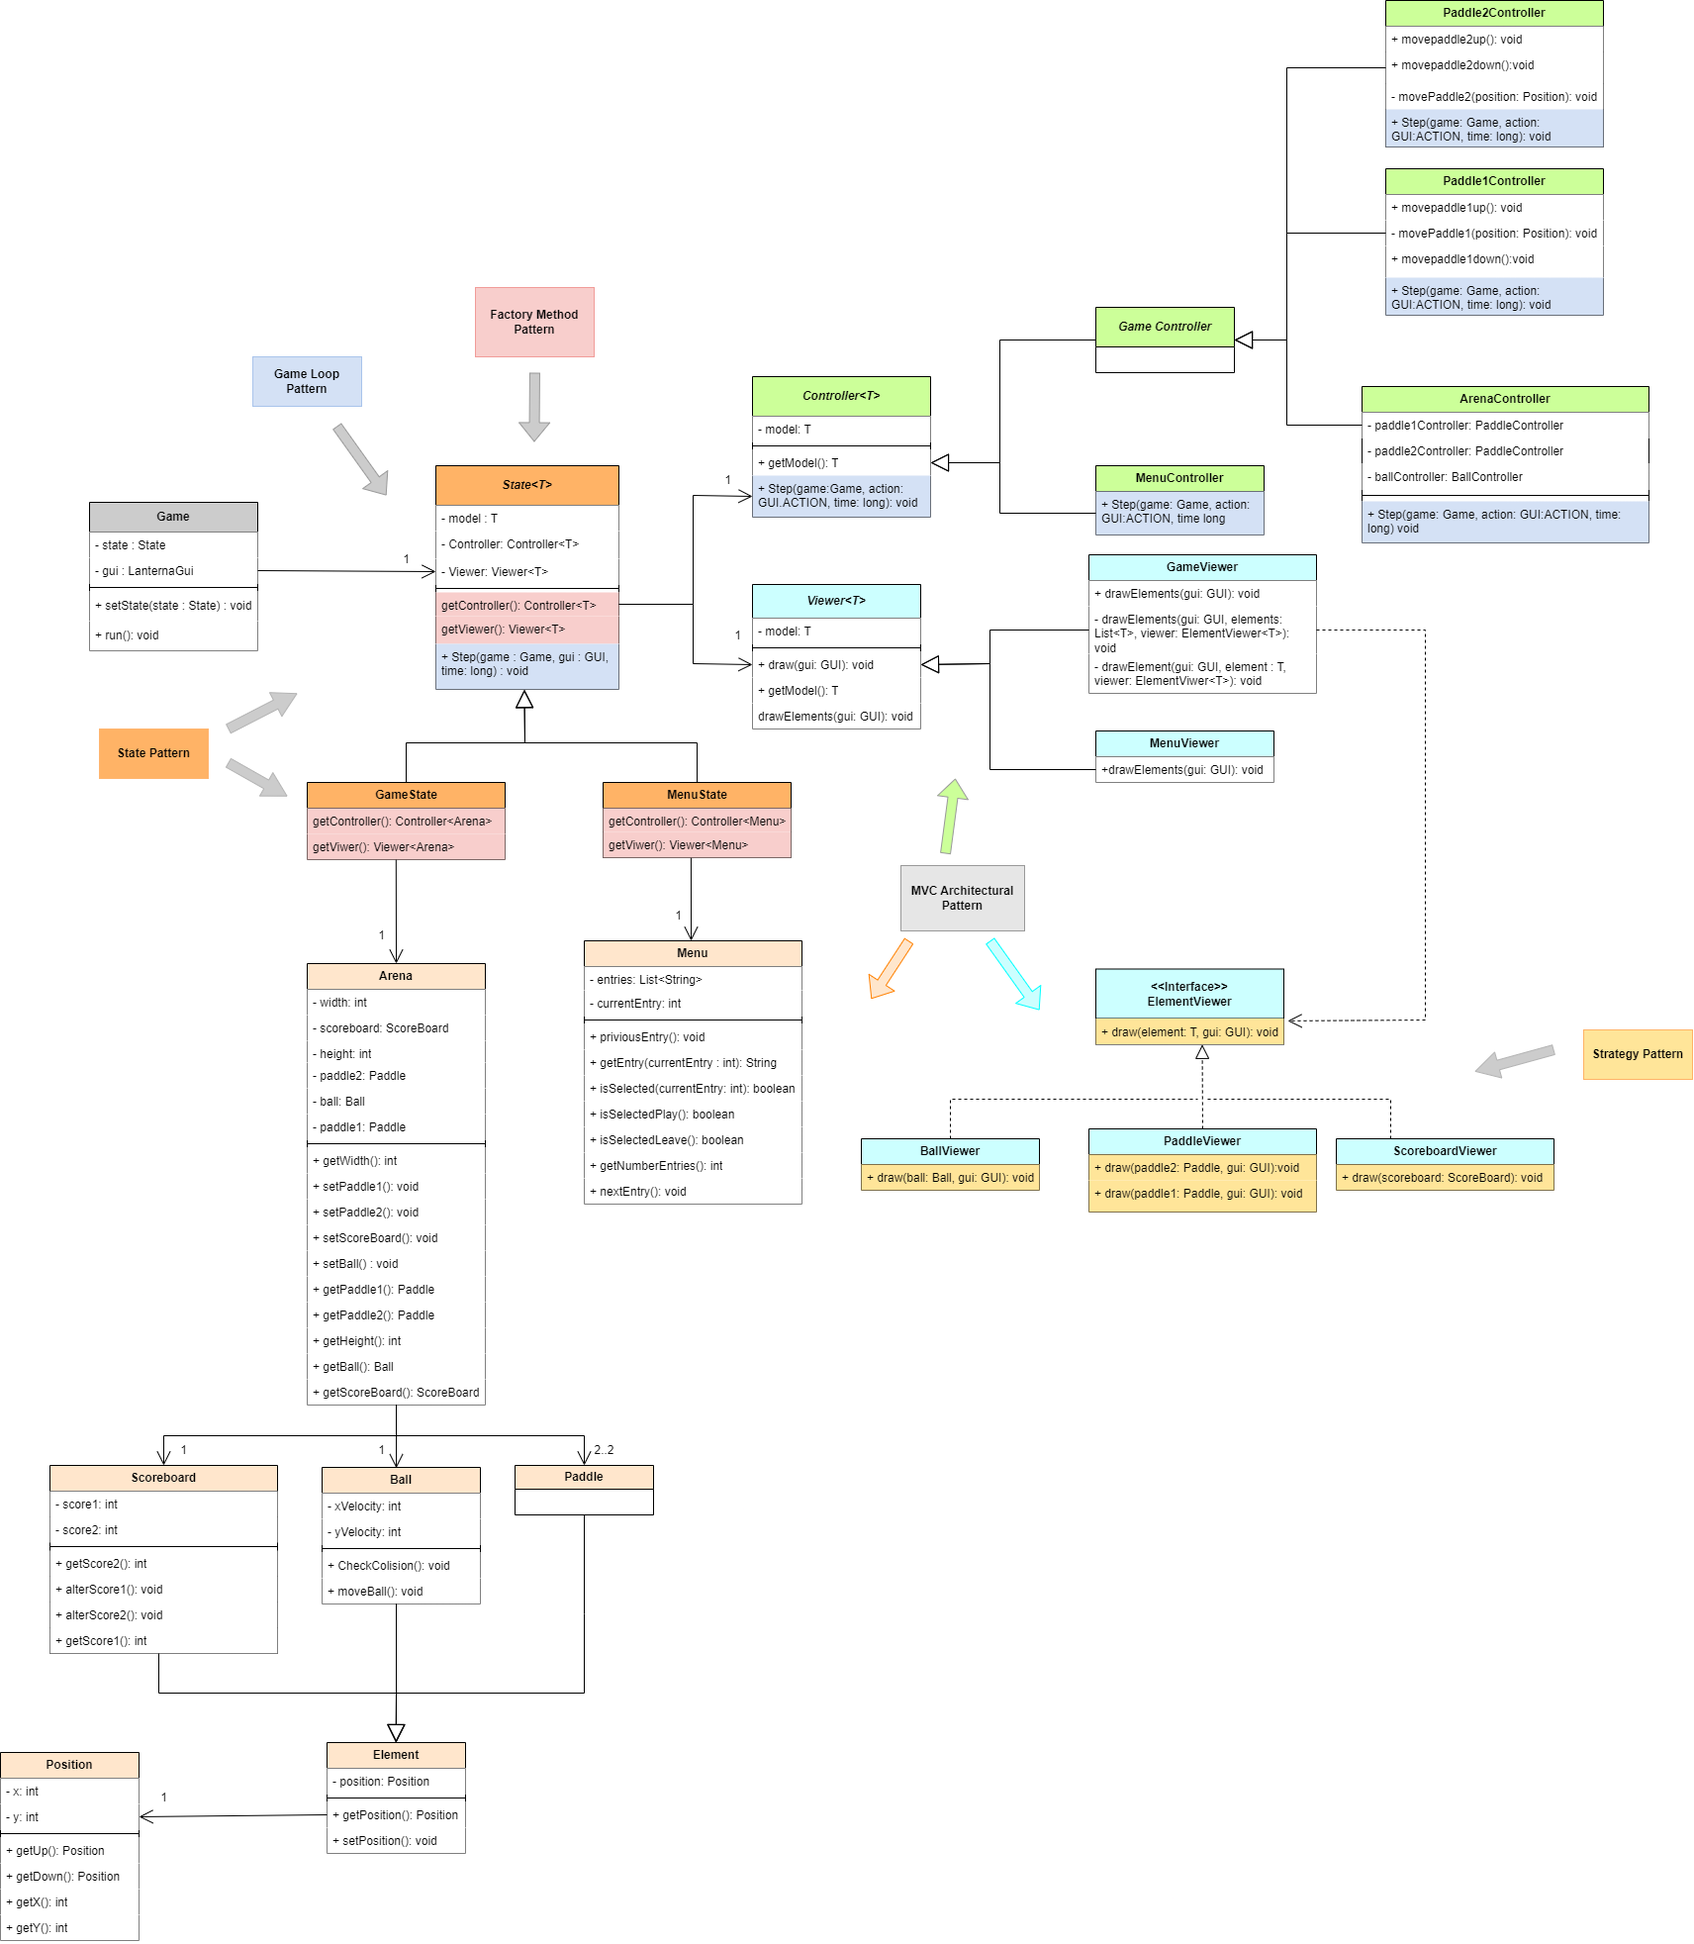
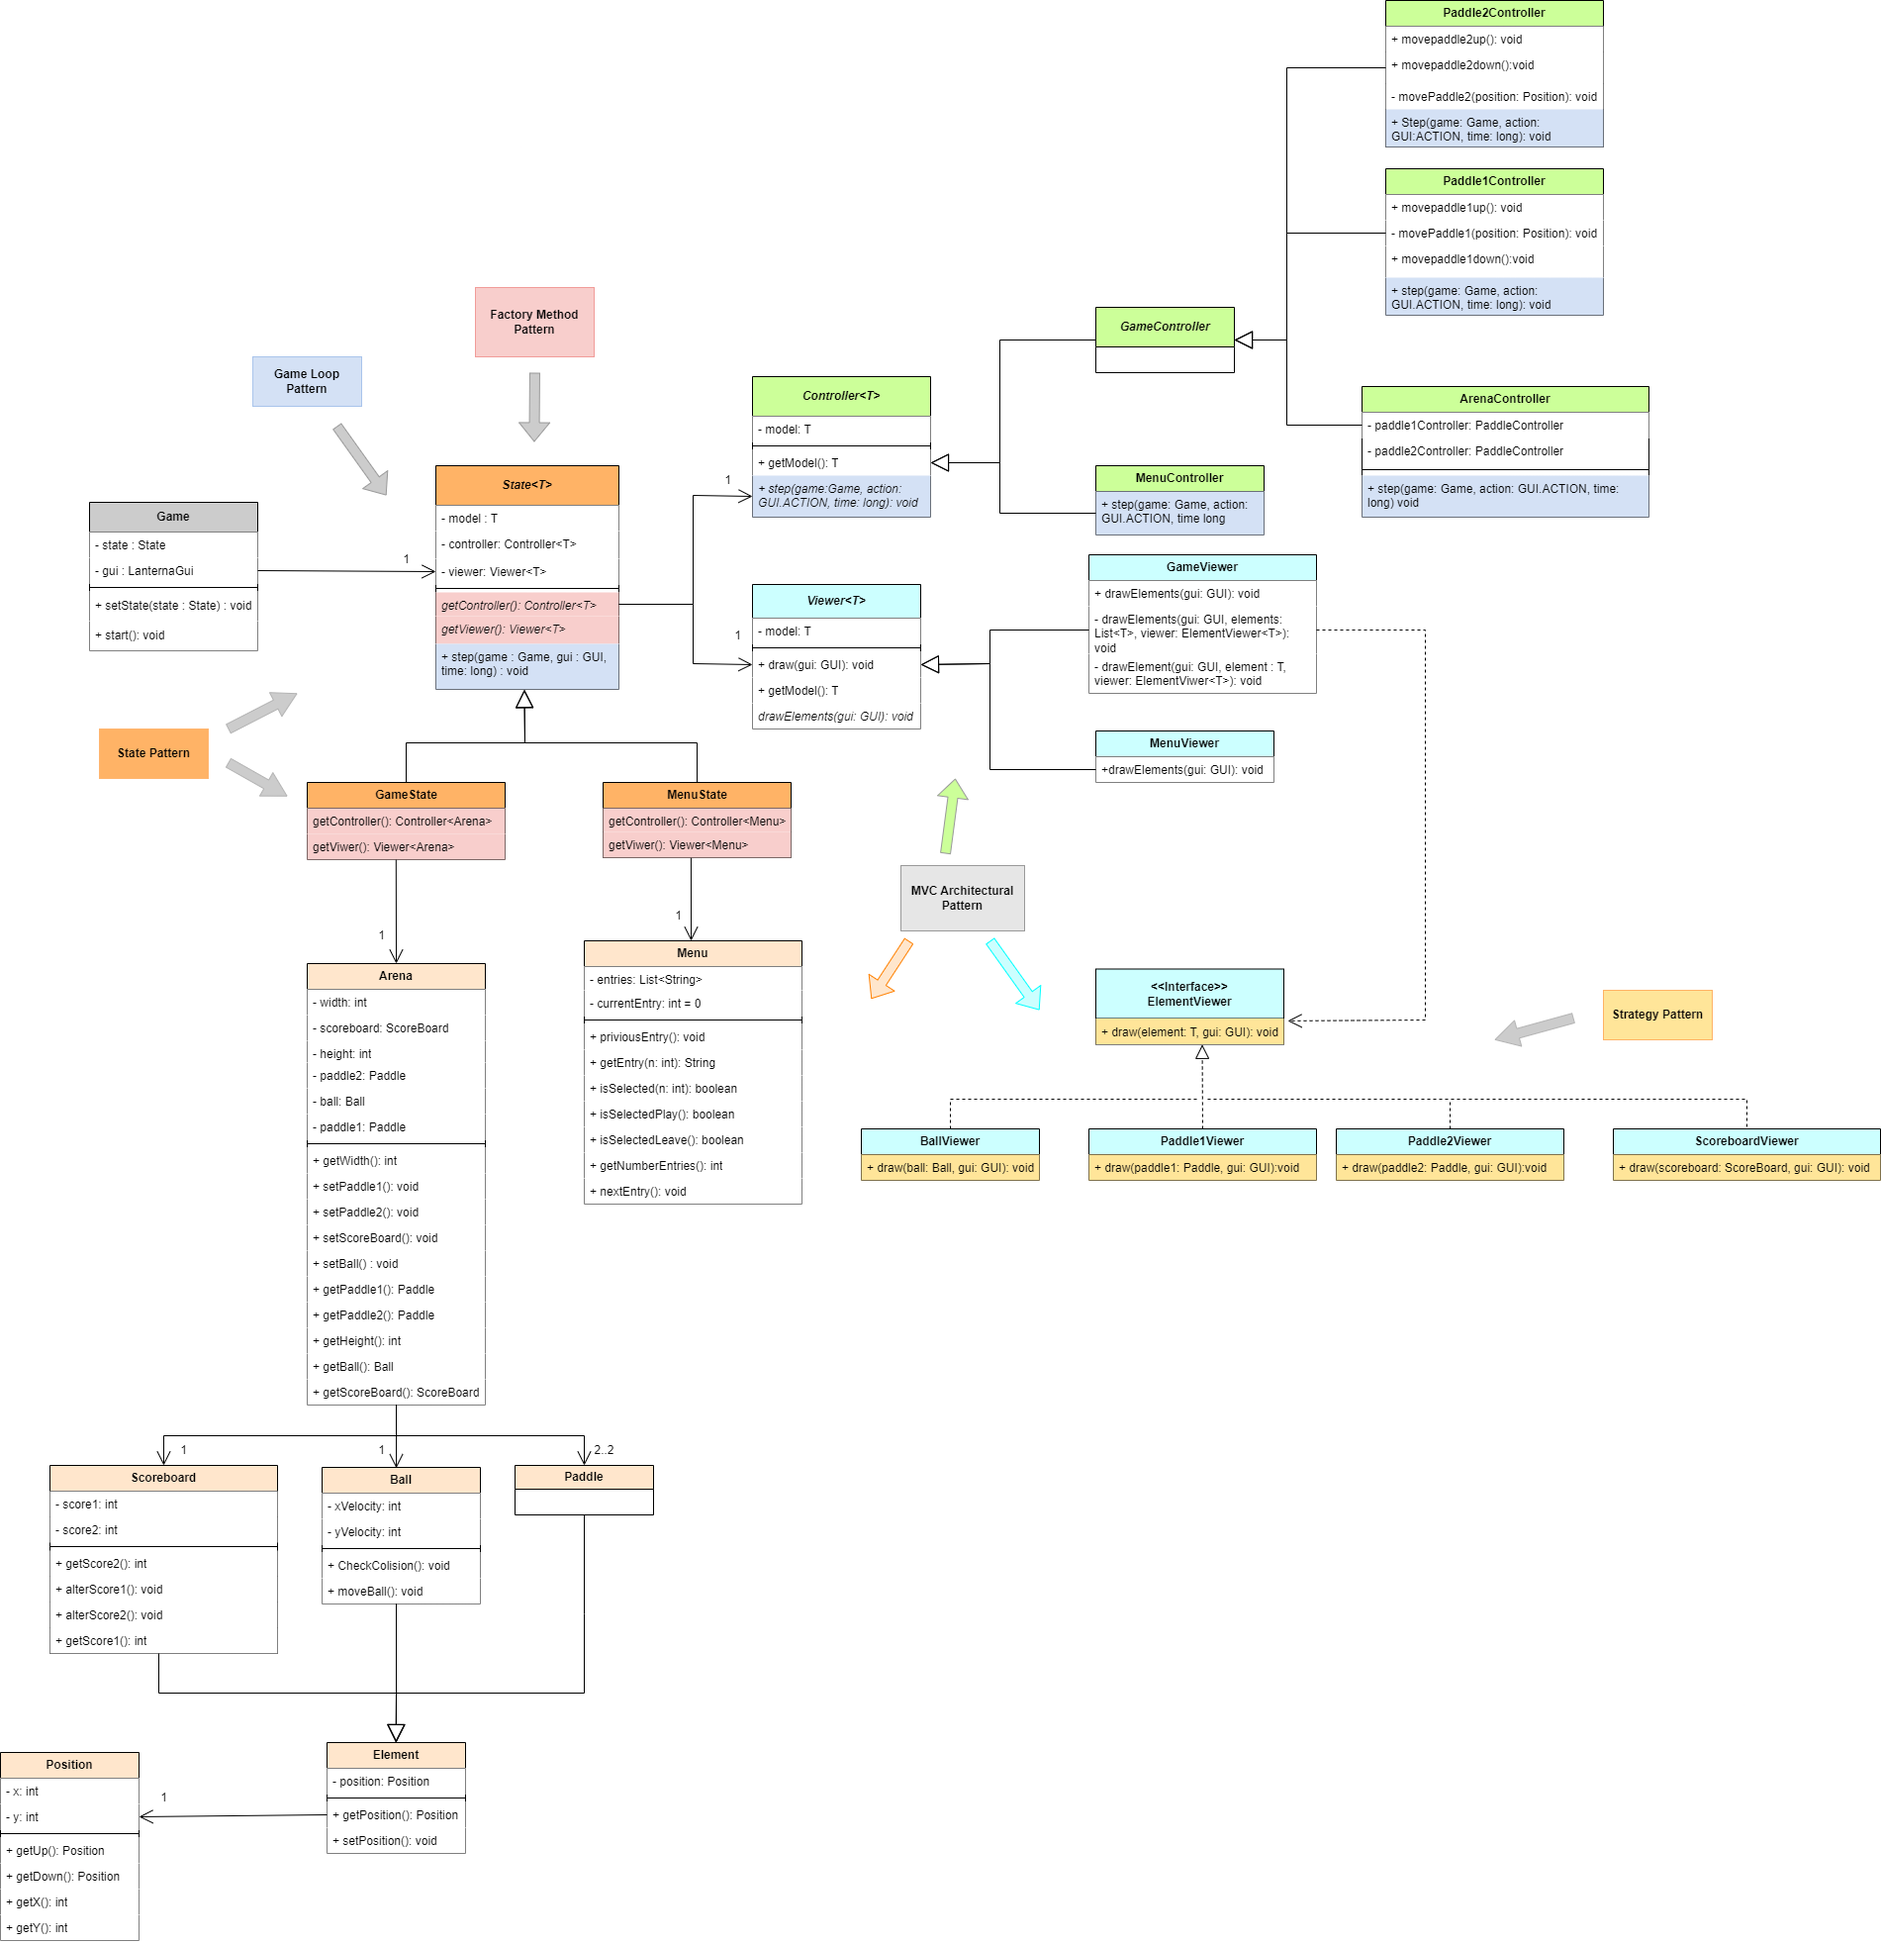
Fixed Issues

diff --git a/src/main/java/com/aor/pong/gui/LanternaGUI.java b/src/main/java/com/aor/pong/gui/LanternaGUI.java
@@ -10,13 +10,10 @@ import com.googlecode.lanterna.screen.Screen;
 import com.googlecode.lanterna.screen.TerminalScreen;
 import com.googlecode.lanterna.terminal.DefaultTerminalFactory;
 import com.googlecode.lanterna.terminal.Terminal;
-import com.googlecode.lanterna.terminal.swing.AWTTerminalFontConfiguration;
 
 import java.awt.*;
-import java.io.File;
 import java.io.IOException;
 import java.net.URISyntaxException;
-import java.net.URL;
 
 public class LanternaGUI implements GUI {
     private final Screen screen;
@@ -64,27 +61,27 @@ public class LanternaGUI implements GUI {
 
     @Override
     public void drawPaddle1(Position position) {
-
+        drawCharacter(position.getX(), position.getY(), 'H', "#0000FF");
     }
 
     @Override
     public void drawPaddle2(Position position) {
-
+        drawCharacter(position.getX(), position.getY(), 'H', "#FF0000");
     }
 
     @Override
     public void drawWall(Position position) {
-        drawCharacter(position.getX(), position.getY(), '#', "#3333FF");
+        drawCharacter(position.getX(), position.getY(), '#', "#FFFFFF");
     }
 
     @Override
     public void drawBall(Position position) {
-
+        drawCharacter(position.getX(), position.getY(), 'H', "#FFFFFF");
     }
 
     @Override
     public void drawScoreBoard(Position position) {
-
+        drawCharacter(position.getX(), position.getY(), 'H', "#FFFFFF");
     }
 
     @Override

diff --git a/src/main/java/com/aor/pong/viewer/game/GameViewer.java b/src/main/java/com/aor/pong/viewer/game/GameViewer.java
@@ -1,7 +1,6 @@
 package com.aor.pong.viewer.game;
 
 import com.aor.pong.gui.GUI;
-import com.aor.pong.model.Position;
 import com.aor.pong.model.game.arena.Arena;
 import com.aor.pong.model.game.elements.Element;
 import com.aor.pong.viewer.Viewer;
@@ -19,11 +18,6 @@ public class GameViewer extends Viewer<Arena> {
         drawElement(gui, getModel().getPaddle1(), new Paddle1Viewer());
         drawElement(gui, getModel().getPaddle2(), new Paddle2Viewer());
         drawElement(gui, getModel().getScoreBoard(), new ScoreBoardViewer());
-    }
-
-    private <T extends Element> void drawElements(GUI gui, List<T> elements, ElementViewer<T> viewer) {
-        for (T element : elements)
-            drawElement(gui, element, viewer);
     }
 
     private <T extends Element> void drawElement(GUI gui, T element, ElementViewer<T> viewer) {

diff --git a/src/main/java/com/aor/pong/model/Position.java b/src/main/java/com/aor/pong/model/Position.java
@@ -1,11 +1,19 @@
 package com.aor.pong.model;
 
+
 public class Position {
     int x;
     int y;
     public Position(int x, int y){
         this.x=x;
         this.y=y;
+    }
+    public Position getUp() {
+        return new Position(x, y - 1);
+    }
+
+    public Position getDown() {
+        return new Position(x, y + 1);
     }
 
     public int getY() {
@@ -16,12 +24,6 @@ public class Position {
         return x;
     }
 
-    public void setY(int y) {
-        this.y = y;
-    }
 
-    public void setX(int x) {
-        this.x = x;
-    }
 
 }

diff --git a/src/main/java/com/aor/pong/states/GameState.java b/src/main/java/com/aor/pong/states/GameState.java
@@ -1,10 +1,9 @@
 package com.aor.pong.states;
 
-import com.aor.pong.controller.Controller;
 //import com.aor.pong.controller.game.ArenaController;
+import com.aor.pong.viewer.game.GameViewer;
 import com.aor.pong.model.game.arena.Arena;
 import com.aor.pong.viewer.Viewer;
-import com.aor.pong.viewer.game.GameViewer;
 
 public class GameState extends State<Arena> {
     public GameState(Arena arena) {

diff --git a/src/main/java/com/aor/pong/states/MenuState.java b/src/main/java/com/aor/pong/states/MenuState.java
@@ -1,11 +1,10 @@
 package com.aor.pong.states;
 
 
-import com.aor.pong.controller.Controller;
 //import com.aor.pong.controller.menu.MenuController;
 import com.aor.pong.model.menu.Menu;
-import com.aor.pong.viewer.Viewer;
 import com.aor.pong.viewer.menu.MenuViewer;
+import com.aor.pong.viewer.Viewer;
 
 public class MenuState extends State<Menu> {
     public MenuState(Menu model) {

diff --git a/src/main/java/com/aor/pong/viewer/game/Paddle2Viewer.java b/src/main/java/com/aor/pong/viewer/game/Paddle2Viewer.java
@@ -3,7 +3,8 @@ package com.aor.pong.viewer.game;
 import com.aor.pong.gui.GUI;
 import com.aor.pong.model.game.elements.Paddle;
 
-public class Paddle2Viewer implements ElementViewer<Paddle>{
-    @Override
+public class Paddle2Viewer implements ElementViewer<Paddle> {
     public void draw(Paddle paddle2, GUI gui) { gui.drawPaddle2(paddle2.getPosition()); }
+
+
 }

diff --git a/src/main/java/com/aor/pong/viewer/game/Paddle1Viewer.java b/src/main/java/com/aor/pong/viewer/game/Paddle1Viewer.java
@@ -3,7 +3,8 @@ package com.aor.pong.viewer.game;
 import com.aor.pong.gui.GUI;
 import com.aor.pong.model.game.elements.Paddle;
 
-public class Paddle1Viewer implements ElementViewer<Paddle>{
+public class Paddle1Viewer implements ElementViewer<Paddle> {
     @Override
     public void draw(Paddle paddle1, GUI gui) { gui.drawPaddle1(paddle1.getPosition()); }
+
 }

diff --git a/src/main/java/com/aor/pong/model/menu/Menu.java b/src/main/java/com/aor/pong/model/menu/Menu.java
@@ -31,11 +31,11 @@ public class Menu {
         return currentEntry == i;
     }
 
-    public boolean isSelectedExit() {
+    public boolean isSelectedLeave() {
         return isSelected(1);
     }
 
-    public boolean isSelectedStart() {
+    public boolean isSelectedPlay() {
         return isSelected(0);
     }
 

diff --git a/src/main/java/com/aor/pong/model/game/arena/Arena.java b/src/main/java/com/aor/pong/model/game/arena/Arena.java
@@ -1,8 +1,8 @@
 package com.aor.pong.model.game.arena;
 
+import com.aor.pong.model.game.elements.ScoreBoard;
 import com.aor.pong.model.game.elements.Ball;
 import com.aor.pong.model.game.elements.Paddle;
-import com.aor.pong.model.game.elements.ScoreBoard;
 
 public class Arena {
     private final int width;

diff --git a/src/main/java/com/aor/pong/states/State.java b/src/main/java/com/aor/pong/states/State.java
@@ -1,11 +1,6 @@
 package com.aor.pong.states;
 
-import com.aor.pong.Game;
-import com.aor.pong.controller.Controller;
-import com.aor.pong.gui.GUI;
 import com.aor.pong.viewer.Viewer;
-
-import java.io.IOException;
 
 public abstract class State<T> {
     private final T model;

diff --git a/src/main/java/com/aor/pong/model/game/elements/Paddle.java b/src/main/java/com/aor/pong/model/game/elements/Paddle.java
@@ -1,10 +1,8 @@
 package com.aor.pong.model.game.elements;
 
 import com.aor.pong.model.Position;
-import com.aor.pong.model.game.elements.Element;
 
 public class Paddle extends Element {
-    Position position;
     public Paddle(int x, int y){
         super(x,y);
     }

diff --git a/src/main/java/com/aor/pong/model/game/elements/Ball.java b/src/main/java/com/aor/pong/model/game/elements/Ball.java
@@ -1,5 +1,7 @@
 package com.aor.pong.model.game.elements;
 
+import com.aor.pong.model.Position;
+
 public class Ball extends Element {
     public Ball(int x, int y){
         super(x,y);
